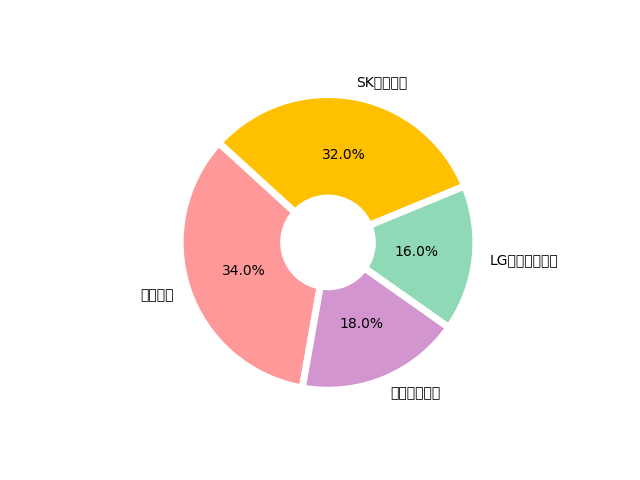
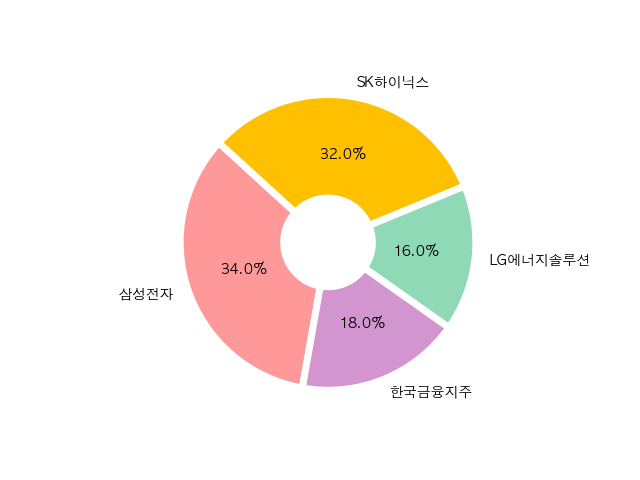
fix: requirements.txt, python3.8 version

diff --git a/web_Page.py b/web_Page.py
@@ -26,9 +26,8 @@ pb_name = st.text_input(label="PB명", value="PB이름")
 pb_comment = st.text_input(label ="PB 한줄코멘트", value = "다 사세요.")
 input_user_name = st.selectbox("고객명", cus_info['고객명'].unique())
 
-path = './font/NanumGothicCoding.ttf'
-font_name = fm.FontProperties(fname=path, size=50)
-plt.rc('font', family=font_name)
+
+plt.rc('font', family="AppleGothic")
 
 ratio = [34, 32, 16, 18]
 labels = ['삼성전자', 'SK하이닉스', 'LG에너지솔루션', '한국금융지주']
